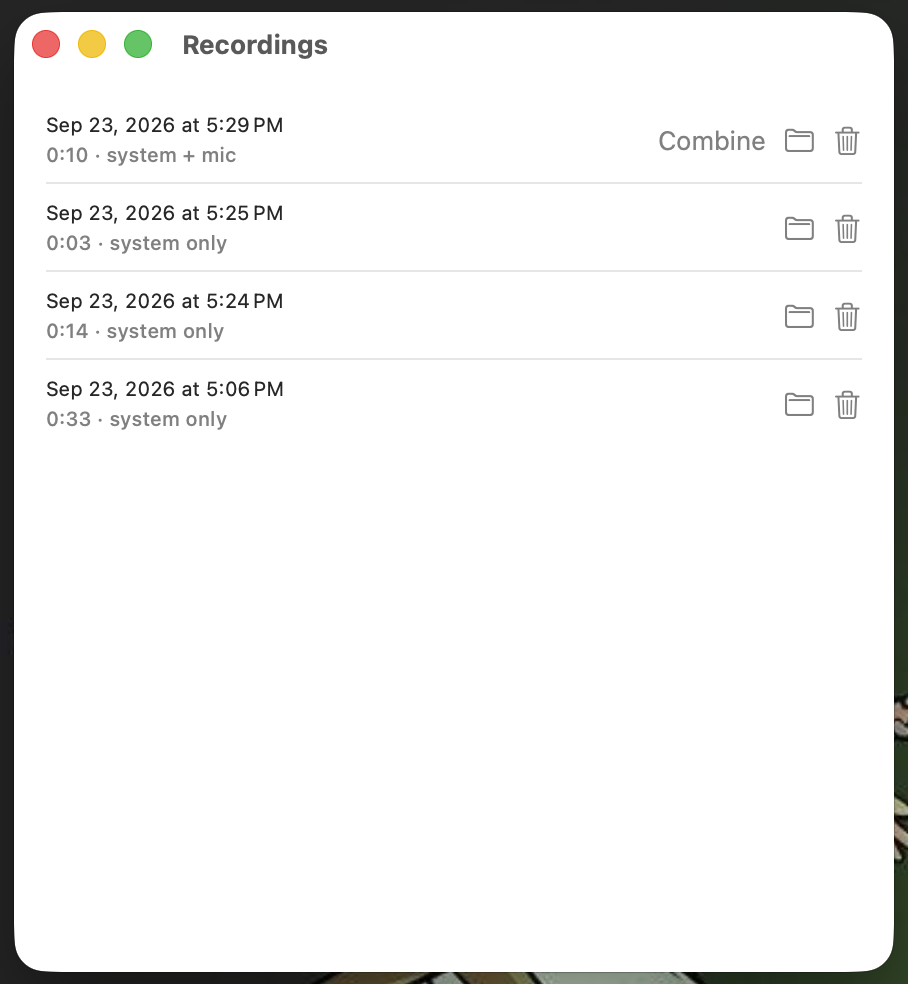
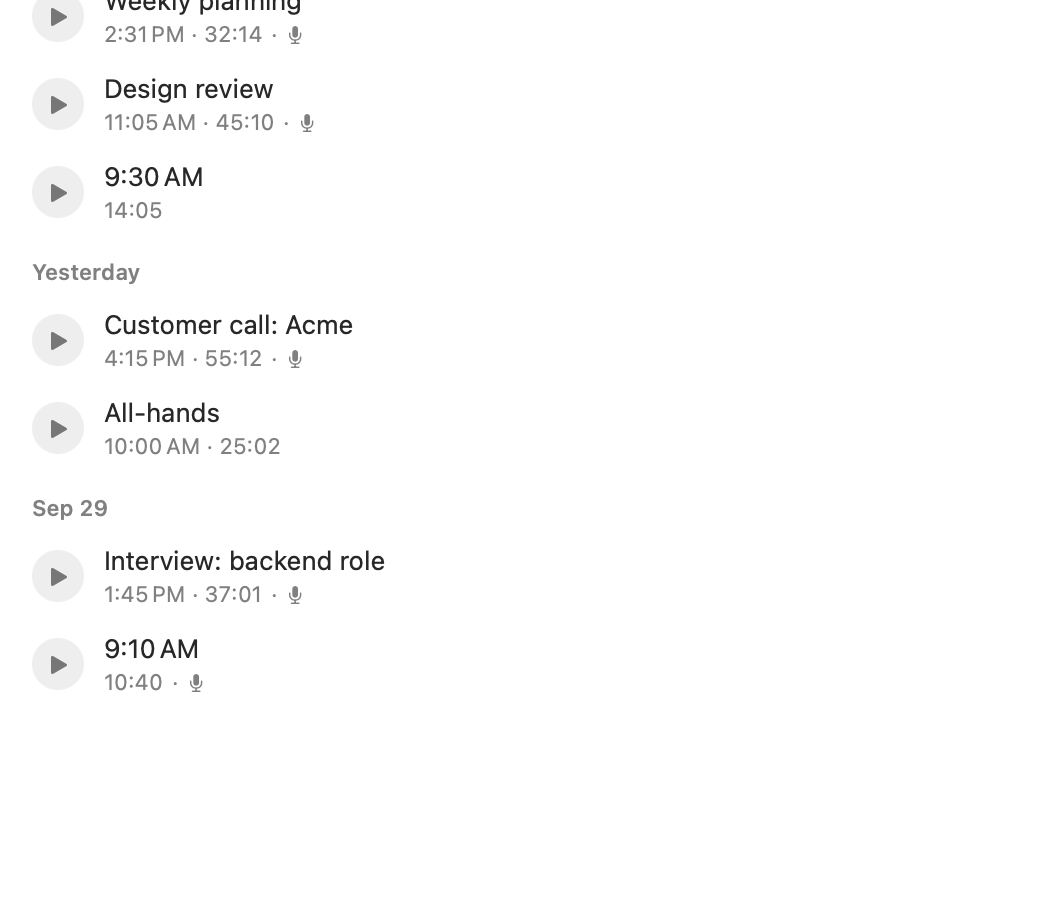
docs: README and screenshots for 1.6.0
- Intro leads with the transcript; new Recordings and Settings screenshots
  taken from demo data; folder layout, tests, internals and file tree brought
  up to date
- build-appstore.sh no longer deletes the store listing and screenshots
  that live beside its build products

diff --git a/README.md b/README.md
@@ -1,8 +1,8 @@
 # Rekord
 
-Record your meetings on a Mac as **two separate audio tracks**: the meeting audio (Zoom, Webex, Meet, anything playing on your Mac) and your **microphone**. Separate tracks make transcription and speaker labelling much easier. When you'd rather have one file, Rekord also saves a mix of the two.
+Record your meetings on a Mac and get a **transcript** you can read or hand to an AI assistant. Rekord records the meeting audio (Zoom, Webex, Meet, anything playing on your Mac) and your **microphone** as two separate tracks, which is what lets the transcript say who spoke: **Me** or **Others**.
 
-Rekord lives in the menu bar, has no Dock icon, and needs no virtual audio driver.
+Everything happens on your Mac: the recording, the transcript (macOS 26 or later) and the mix of both tracks. Rekord lives in the menu bar, has no Dock icon, and needs no virtual audio driver.
 
 ## Screenshots
 
@@ -19,12 +19,12 @@ Rekord lives in the menu bar, has no Dock icon, and needs no virtual audio drive
   </tr>
   <tr>
     <td align="center" valign="top">
-      <img src="docs/screenshots/recordings.png" width="340" alt="The Recordings window listing past recordings with reveal and delete buttons"><br>
+      <img src="docs/screenshots/recordings.png" width="340" alt="The Recordings window: recordings grouped under Today, Yesterday and a date, each with a play button, a name or time, its length and a microphone symbol"><br>
       <sub>Recordings</sub>
     </td>
     <td align="center" valign="top">
-      <img src="docs/screenshots/settings.png" width="260" alt="The Settings window with startup, microphone, shortcut, recordings and permissions sections"><br>
-      <sub>Settings</sub>
+      <img src="docs/screenshots/settings.png" width="380" alt="The Transcription tab of Settings: transcribe new recordings automatically, language, timestamps, and include microphone"><br>
+      <sub>Settings: Transcription</sub>
     </td>
   </tr>
 </table>
@@ -111,8 +111,10 @@ Each recording is a folder in `~/Documents/Rekord/` (or the folder you chose in 
   mic.m4a         your microphone (only if it was included)
   combined.m4a    both mixed together (made automatically when the mic was included)
   transcript.txt  what was said, with times (macOS 26 or later)
-  session.json    start time, duration, sample rates, mic/system sync offset
+  session.json    start time, duration, sample rates, mic/system sync offset, and the name you gave it
 ```
+
+After the period set in Settings (7 days by default), the three audio files of a transcribed recording are moved to the Trash; `transcript.txt` and `session.json` stay.
 
 Audio is recorded as `.caf`, which survives a crash, and converted to `.m4a` when the recording finishes, so the files are small and play anywhere. To keep the lossless `.caf` files instead, choose **CAF (lossless)** in **Settings > Audio**; convert one for another tool with `afconvert -f WAVE -d LEI16 system.caf system.wav`.
 
@@ -127,7 +129,7 @@ Open **Settings…** from the menu. It has four tabs:
 
 ### Tips and troubleshooting
 
-- **Use headphones.** On speakers, the microphone also hears the meeting from the room, so it ends up on your mic track too.
+- **Use headphones.** On speakers, the microphone also hears the meeting from the room, so it ends up on your mic track too. Rekord leaves those repeated lines out of the transcript, but they are still in the audio.
 - **The shortcut does nothing.** Rekord must be running (turn on *Launch at login*), and another app may already use that combination. Rekord shows a warning when it can't claim the shortcut; pick another one in Settings.
 - **Nothing is recorded from other people.** Check the System Audio permission above.
 - Rekord records everything your Mac plays, not just one app. Mute other audio you don't want in the file.
@@ -154,7 +156,7 @@ xcodebuild test -project Rekord.xcodeproj -scheme Rekord -destination 'platform=
   CODE_SIGN_STYLE=Manual CODE_SIGN_IDENTITY=- DEVELOPMENT_TEAM=
 ```
 
-The unit tests in `RekordTests/` cover the mixdown (`CombineEngine`), transcript layout, `session.json`, shortcuts, the output folder setting and the recordings list, and CI runs them on every pull request. Because they run inside the app, they read and restore the app's real settings. Core Audio taps need real hardware and real permissions, so capture has no automated tests; test that by recording.
+The unit tests in `RekordTests/` cover the mixdown, the transcript (echo removal and paragraphs), M4A conversion, pausing, playback state, audio removal, `session.json`, shortcuts, the output folder setting and the recordings list, and CI runs them on every pull request. A few use the real speech model and are skipped where it isn't installed. Because they run inside the app, they read and restore the app's real settings. Core Audio taps need real hardware and real permissions, so capture has no automated tests; test that by recording.
 
 ### How it works
 
@@ -162,7 +164,9 @@ The unit tests in `RekordTests/` cover the mixdown (`CombineEngine`), transcript
 - **Microphone:** `MicRecorder` taps an `AVAudioEngine` input node, writing on its own queue. It can point that engine at a chosen device without changing the system default.
 - **Pause:** `PauseGate` holds the paused stretches as host times; both recorders cut their buffers at exactly those moments, so the tracks stay in step.
 - **Session:** `RecordingSession` starts both, records each track's first-buffer host time so `session.json` can store the sync offset, and rolls back on any start failure.
-- **Transcripts:** `Transcriber` runs Apple's `SpeechAnalyzer` (macOS 26+) over each track and `Transcript.render` merges them on the recording's timeline. Older systems skip it.
+- **Transcripts:** `Transcriber` runs Apple's `SpeechAnalyzer` (macOS 26+) over each track. `Transcript.render` puts both on the recording's timeline, drops microphone segments that only repeat the system track (`withoutEcho`), and joins each speaker's sentences into paragraphs. Older systems skip it.
+- **Retention:** `RecordingStore` moves the audio of old, transcribed recordings to the Trash when it reloads.
+- **Playback:** `PlaybackController` is one `AVAudioPlayer` shared by the Recordings window.
 - **Compression:** once the mix and transcript are done, `AudioCompressor` converts each CAF to M4A, checks the result has exactly the same length, and only then deletes the original. `Track` finds a recording's files in either format.
 - **Combine:** `RecordingStore` mixes every finished mic recording automatically; `CombineEngine` mixes the tracks offline with `AVAudioEngine` manual rendering, padding whichever track started later.
 - **Shortcut:** `HotkeyManager` uses Carbon's `RegisterEventHotKey`, which works globally without Accessibility permission.
@@ -170,8 +174,9 @@ The unit tests in `RekordTests/` cover the mixdown (`CombineEngine`), transcript
 ```
 Rekord/
   App/       RekordApp: menu bar scene, windows
-  Audio/     SystemAudioRecorder, MicRecorder, RecordingSession, CombineEngine,
-             AudioInputDevices, PermissionsManager
+  Audio/     SystemAudioRecorder, MicRecorder, RecordingSession, PauseGate, CombineEngine,
+             Transcriber, AudioCompressor, PlaybackController, AudioInputDevices,
+             PermissionsManager
   Models/    Recording, RecordingStore, AppSettings
   UI/        MenuBarView, RecordingsWindowView, RecordingRowView, SettingsView,
              HotkeyManager, HotkeyPopupView
